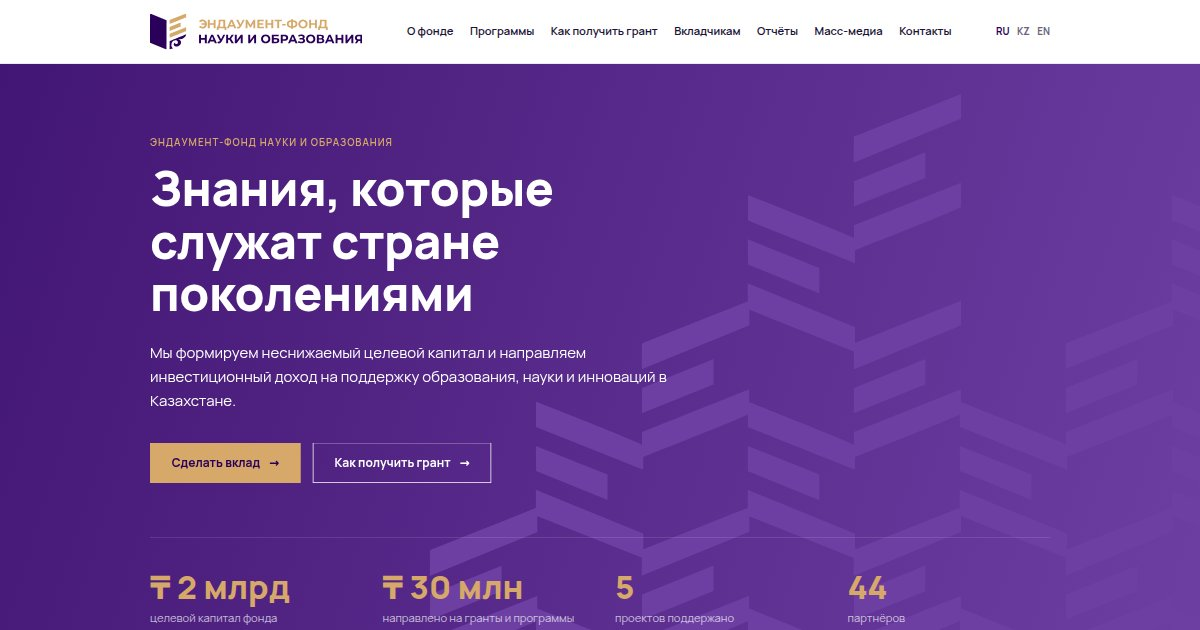
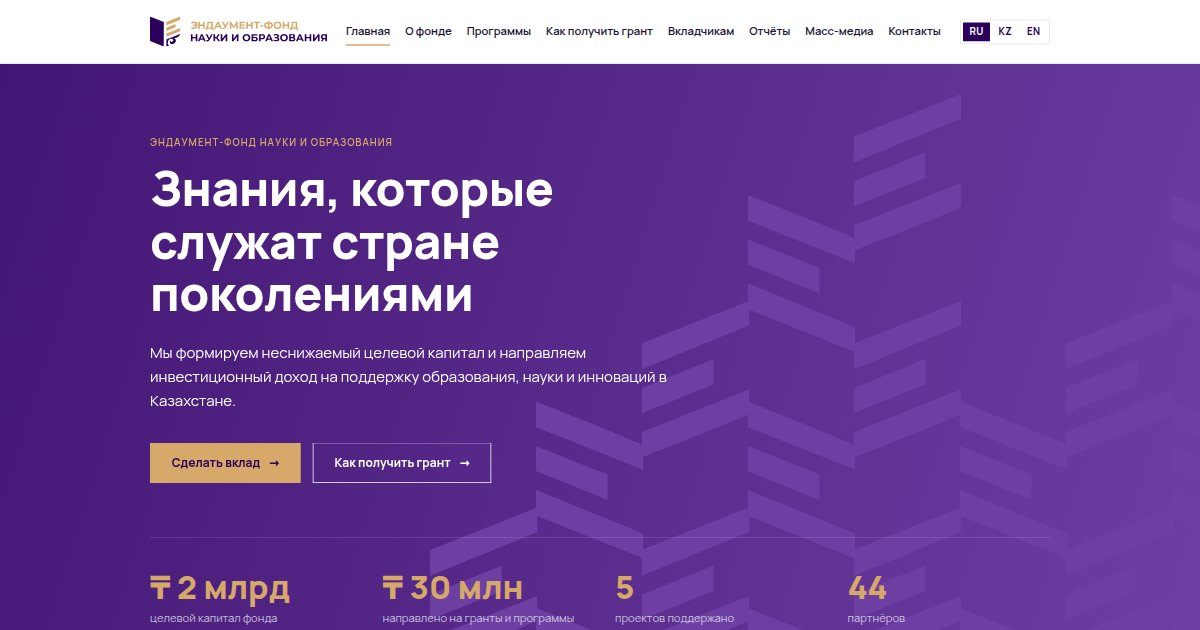
UX/UI: контраст текста, компактные карточки программ, проверка форм, «Показать ещё» в СМИ, партнёры без логотипа, фокус, иконки сайта
Claude-Session: https://claude.ai/code/session_01XUb5ZNUw9HyoULA7bBhtLk

Changed region(s): [[0.1233, 0.0, 0.8942, 0.0905]]

diff --git a/build.js b/build.js
@@ -141,7 +141,7 @@ ${alt}
 <meta name="twitter:card" content="summary_large_image">
 <meta name="twitter:image" content="${SITE}/assets/img/og-${lang}-v2.jpg">
 <meta name="theme-color" content="#2B005B">
-<link rel="icon" href="${R}favicon.svg" type="image/svg+xml">
+<link rel="icon" href="${R}favicon.svg" type="image/svg+xml"><link rel="icon" href="/favicon-32.png" sizes="32x32" type="image/png"><link rel="apple-touch-icon" href="/apple-touch-icon.png"><meta name="theme-color" content="#2B005B">
 <link rel="preconnect" href="https://fonts.googleapis.com"><link rel="preconnect" href="https://fonts.gstatic.com" crossorigin>
 <link href="https://fonts.googleapis.com/css2?family=Manrope:wght@400;500;600;700;800&family=Onest:wght@400;500;600;700;800&display=swap" rel="stylesheet">
 <link rel="stylesheet" href="${R}assets/css/style.css">
@@ -237,7 +237,7 @@ ${DOCS.map(grp => { const its = lang === 'kz' && grp.items[0].file === 'ustav-ru
   page('programs.html', p.title, p.desc, 'programs.html', `
 ${phero(p.title, p.title, p.lead)}
 <section class="sec bg-wh"><div class="wrap">${head(p.mainEb, p.mainH)}
-<div class="grid g3">${p.main.map(([cat, h, bud, per, d, l]) => `<div class="form prog-main" style="gap:16px"><span class="tag vi" style="align-self:flex-start">${cat}</span><h3 class="h3">${h}</h3><dl class="pm-meta"><div><dt>${p.budgetL}</dt><dd>${bud}</dd></div><div><dt>${p.periodL}</dt><dd>${per}</dd></div></dl><p class="txt">${d}</p><hr style="border:0;border-top:1px solid var(--ln);margin:4px 0;width:100%">${l.map(y => `<span class="check">${y}</span>`).join('')}</div>`).join('')}</div>
+<div class="grid g3">${p.main.map(([cat, h, bud, per, d, l]) => `<div class="form prog-main" style="gap:16px"><span class="tag vi" style="align-self:flex-start">${cat}</span><h3 class="h3">${h}</h3><dl class="pm-meta"><div><dt>${p.budgetL}</dt><dd>${bud}</dd></div><div><dt>${p.periodL}</dt><dd>${per}</dd></div></dl><p class="txt">${d}</p><hr style="border:0;border-top:1px solid var(--ln);margin:4px 0;width:100%">${l.slice(0, 3).map(y => `<span class="check">${y}</span>`).join('')}${l.length > 3 ? `<details class="pm-more"><summary><span class="pm-open">${{ ru: 'Подробнее', kz: 'Толығырақ', en: 'More' }[lang]} (${l.length - 3})</span><span class="pm-close">${{ ru: 'Свернуть', kz: 'Жасыру', en: 'Less' }[lang]}</span></summary><div class="pm-list">${l.slice(3).map(y => `<span class="check">${y}</span>`).join('')}</div></details>` : ''}</div>`).join('')}</div>
 </div></section>
 <section class="sec bg-li"><div class="wrap">${head(p.cardsEb, p.cardsH)}
 <div class="toolbar"><div class="chips" data-filter>${FILTERS.map((v, i) => `<button class="chip${i ? '' : ' on'}" data-value="${v}">${p.filters[i]}</button>`).join('')}</div>
@@ -325,7 +325,8 @@ ${phero(r.title, r.h1, r.lead)}
 ${phero(s.title, s.title, s.lead)}
 <section class="sec bg-li" style="padding-top:72px"><div class="wrap">
 ${(() => { const ys = [...new Set(MEDIA.filter(m => m.date).map(m => m.date.slice(-4)))]; const vals = ['all', ...ys.map(y => 'y' + y), 'other']; const labs = [s.all, ...ys, s.other]; return `<div class="toolbar"><div class="chips" data-filter>${vals.map((v, i) => `<button class="chip${i ? '' : ' on'}" data-value="${v}">${labs[i]}</button>`).join('')}</div><span class="meta">${s.count}: ${MEDIA.length}</span></div>`; })()}
-<div class="grid g3">${MEDIA.map(newsCard).join('')}</div>
+<div class="grid g3" data-paged="12">${MEDIA.map(newsCard).join('')}</div>
+<div class="more-wrap"><button class="btn btn-outline more-btn" type="button">${{ ru: 'Показать ещё', kz: 'Тағы көрсету', en: 'Show more' }[lang]}</button></div>
 </div></section>
 <section class="sec bg-vi" style="padding:72px 0"><div class="wrap cta"><div><span class="eb">${s.journEb}</span><h2 class="h2 h2-sm">${s.journH}</h2><p style="opacity:.8;margin-top:8px"><a href="mailto:${EMAIL}">${EMAIL}</a></p></div>
 <form class="sub" name="subscribe" method="POST" action="${FS}">${hidden('subscribe')}<label class="visually-hidden" for="sub-email">E-mail</label><input id="sub-email" type="email" name="email" placeholder="${s.subPh}" required><button class="btn btn-gold" type="submit">${s.subBtn}</button></form></div></section>
@@ -335,14 +336,14 @@ ${(() => { const ys = [...new Set(MEDIA.filter(m => m.date).map(m => m.date.slic
   const pp = t.partnersPage;
   const ptCard = it => {
     const src = it.logo ? (it.logo.startsWith('local:') ? `${R}assets/img/partners/${it.logo.slice(6)}` : it.logo) : '';
-    const img = src ? `<img src="${src}" alt="" loading="lazy" referrerpolicy="no-referrer" onerror="this.remove()">` : '';
-    return `<div class="pt"><div class="pt-logo">${img}<span class="pt-mono" aria-hidden="true">${it.mono}</span></div><p class="pt-name">${it[lang]}</p></div>`;
+    if (!src) return `<div class="pt pt-nl"><p class="pt-name">${it[lang]}</p></div>`;
+    return `<div class="pt"><div class="pt-logo"><img src="${src}" alt="" loading="lazy" referrerpolicy="no-referrer" onerror="var c=this.closest('.pt'),g=c.closest('.pt-group'),n=g.querySelector('.pt-grid-nl');if(!n){n=document.createElement('div');n.className='pt-grid pt-grid-nl';g.appendChild(n)}c.classList.add('pt-nl');this.parentNode.remove();n.appendChild(c)"></div><p class="pt-name">${it[lang]}</p></div>`;
   };
   page('partners.html', pp.title, pp.desc, '', `
 ${phero(pp.title, pp.title, pp.lead)}
 <section class="sec bg-li"><div class="wrap">
 <p class="pt-total"><b>${PARTNERS_ALL.items.length}</b> ${pp.count}</p>
-${PARTNERS_ALL.groups.map(g => { const its = PARTNERS_ALL.items.filter(i => i.g === g.id); return `<div class="pt-group"><h2 class="h3 pt-gh">${g[lang]} <span>${its.length}</span></h2><div class="pt-grid">${its.map(ptCard).join('')}</div></div>`; }).join('')}
+${PARTNERS_ALL.groups.map(g => { const its = PARTNERS_ALL.items.filter(i => i.g === g.id).sort((a, b) => (b.logo ? 1 : 0) - (a.logo ? 1 : 0)); return `<div class="pt-group"><h2 class="h3 pt-gh">${g[lang]} <span>${its.length}</span></h2>${its.some(i => i.logo) ? `<div class="pt-grid">${its.filter(i => i.logo).map(ptCard).join('')}</div>` : ''}${its.some(i => !i.logo) ? `<div class="pt-grid pt-grid-nl">${its.filter(i => !i.logo).map(ptCard).join('')}</div>` : ''}</div>`; }).join('')}
 </div></section>
 `);
 

diff --git a/static/assets/css/style.css b/static/assets/css/style.css
@@ -1,7 +1,7 @@
 /* Эндаумент-фонд науки и образования — стили сайта */
 :root{
   --dp:#2B005B; --vi:#6E3FA3; --go:#D6A86A; --li:#F7F3ED; --wh:#FFFFFF;
-  --ink:#1B1236; --mu:#6B6480; --ln:#E7E2F0;
+  --ink:#1B1236; --mu:#544D68; --ln:#E7E2F0;
   --wrap:1200px; --pad:24px;
   --sec:clamp(64px,9vw,120px);
   --font:'Manrope','Onest',system-ui,-apple-system,'Segoe UI',Arial,sans-serif;
@@ -14,7 +14,8 @@ a{color:inherit;text-decoration:none}
 h1,h2,h3,h4,p{margin:0}
 ul{margin:0;padding:0;list-style:none}
 button,input,select,textarea{font:inherit;color:inherit}
-:focus-visible{outline:3px solid var(--go);outline-offset:2px}
+:focus-visible{outline:3px solid var(--vi);outline-offset:3px}
+:is(.bg-dp,.bg-vi,.hero,.phero,.ftr,.mnav,.band) :focus-visible{outline-color:var(--go)}
 
 .wrap{max-width:calc(var(--wrap) + var(--pad)*2);margin:0 auto;padding:0 var(--pad)}
 .sec{padding:var(--sec) 0}
@@ -30,7 +31,7 @@ button,input,select,textarea{font:inherit;color:inherit}
 .bg-dp .h2,.bg-vi .h2{color:var(--wh)}
 .h3{font-size:clamp(19px,1.8vw,24px);font-weight:700;line-height:1.3;color:var(--dp)}
 .bg-dp .h3,.bg-vi .h3{color:var(--wh)}
-.lead{font-size:clamp(17px,1.5vw,20px);opacity:.78;max-width:720px}
+.lead{font-size:clamp(17px,1.5vw,20px);opacity:.9;max-width:720px}
 .txt{color:var(--mu);font-size:16px}
 .bg-dp .txt,.bg-vi .txt{color:rgba(255,255,255,.72)}
 .link{font-weight:700;font-size:16px;color:var(--vi);display:inline-flex;gap:8px;align-items:center}
@@ -142,7 +143,7 @@ html[lang="kk"] .hdr .wrap{max-width:1408px}
 
 /* Шапка внутренних страниц */
 .phero{background:var(--dp);color:var(--wh);padding:56px 0 88px}
-.crumbs{font-size:14px;color:rgba(255,255,255,.55);margin-bottom:24px}
+.crumbs{font-size:14px;color:rgba(255,255,255,.72);margin-bottom:24px}
 .crumbs a:hover{color:var(--wh)}
 .phero .lead{margin-top:24px}
 
@@ -271,7 +272,7 @@ html[lang="kk"] .hdr .wrap{max-width:1408px}
 .pay button.on{border:2px solid var(--dp)}
 @media (max-width:520px){.amounts{grid-template-columns:1fr 1fr}.pay{grid-template-columns:1fr}}
 .req div{display:grid;grid-template-columns:140px 1fr;gap:16px;font-size:15px;padding:6px 0}
-.req dt{color:rgba(255,255,255,.6)} .req dd{margin:0;font-weight:600}
+.req dt{color:rgba(255,255,255,.72)} .req dd{margin:0;font-weight:600}
 @media (max-width:520px){.req div{grid-template-columns:1fr;gap:2px}}
 
 /* FAQ */
@@ -357,7 +358,7 @@ html[lang="kk"] .hdr .wrap{max-width:1408px}
 .partners .logo-box{display:flex;align-items:center;justify-content:center;min-height:160px;padding:32px}
 .partners .logo-box img{max-width:80%;width:auto;height:auto;object-fit:contain}
 /* Программы: три основные программы */
-.pm-meta{display:grid;grid-template-columns:1fr 1fr;gap:12px;margin:0;padding:16px 0;border-top:1px solid var(--ln);border-bottom:1px solid var(--ln)}
+.pm-meta{display:grid;grid-template-columns:1fr;gap:10px;margin:0;padding:16px 0;border-top:1px solid var(--ln);border-bottom:1px solid var(--ln)}
 .pm-meta dt{font-size:13px;color:var(--mu,#6b6b7b);margin-bottom:4px}
 .pm-meta dd{margin:0;font-weight:700;color:var(--dp);font-size:16px}
 /* О фонде: руководство */
@@ -491,3 +492,35 @@ html[lang="kk"] .nav{gap:14px}html[lang="kk"] .nav a{font-size:14.5px}
 .fab-btn{width:48px;height:48px;display:flex;align-items:center;justify-content:center;background:var(--wh);color:var(--dp);border:1px solid var(--ln);box-shadow:0 8px 24px rgba(43,0,91,.14);cursor:pointer;transition:background .25s,color .25s,transform .25s}
 .fab-btn:hover{background:var(--go);color:var(--dp);transform:translateY(-2px);border-color:var(--go)}
 @media(max-width:700px){.fab-nav{right:16px;bottom:80px}.fab-btn{width:46px;height:46px}}
+
+.pm-meta>div{display:flex;justify-content:space-between;align-items:baseline;gap:16px}
+.pm-meta dt{margin-bottom:0!important;flex:none}
+.pm-meta dd{text-align:right}
+.pm-more summary{list-style:none;cursor:pointer;color:var(--vi);font-weight:700;font-size:15px;display:inline-flex;align-items:center;gap:8px;padding:4px 0}
+.pm-more summary::-webkit-details-marker{display:none}
+.pm-more summary::after{content:'';width:8px;height:8px;border-right:2px solid currentColor;border-bottom:2px solid currentColor;transform:rotate(45deg) translateY(-3px);transition:transform .25s}
+.pm-more[open] summary::after{transform:rotate(-135deg) translateY(-1px)}
+.pm-more .pm-close,.pm-more[open] .pm-open{display:none}
+.pm-more[open] .pm-close{display:inline}
+.pm-list{display:flex;flex-direction:column;gap:16px;margin-top:12px}
+
+/* Формы: обязательные поля, ошибки, галочка согласия */
+.field:has(:required)>label::after{content:' *';color:#B3261E}
+.has-err input,.has-err select,.has-err textarea{border-color:#B3261E!important;background:#FFF7F6}
+.err-msg{display:block;font-size:13px;font-weight:600;color:#B3261E;margin-top:2px;width:100%}
+.agree{flex-wrap:wrap;cursor:pointer;padding:6px 0;line-height:1.4}
+.agree input{width:22px;height:22px;flex:none;margin:0;accent-color:var(--dp);cursor:pointer}
+.agree.has-err input{outline:2px solid #B3261E;outline-offset:2px}
+.agree .err-msg{flex-basis:100%;padding-left:34px}
+
+.pg-hide{display:none!important}
+.more-wrap{display:flex;justify-content:center;margin-top:48px}
+.more-wrap[hidden]{display:none}
+/* Партнёры без логотипа — компактная карточка с названием */
+.pt-nl{justify-content:center;border-left:3px solid var(--go);min-height:88px}
+.pt-nl .pt-name{padding:18px 20px}
+.pt-grid+.pt-grid{margin-top:16px}
+.pt-grid-nl{align-items:stretch}
+.pt-grid-nl .pt-nl{min-height:72px}
+.inp-err{outline:2px solid #FF8A80!important;outline-offset:0}
+.sub{position:relative}.sub>.err-msg{position:absolute;left:0;top:100%;margin-top:8px;color:#FFD7D2;width:auto}

diff --git a/static/assets/js/main.js b/static/assets/js/main.js
@@ -1,3 +1,37 @@
+// ===== Проверка форм с фирменными подсказками =====
+(function () {
+  const L = { ru: { req: 'Заполните это поле', email: 'Укажите корректный e-mail', agree: 'Нужно согласие на обработку данных', file: 'Прикрепите файл', sel: 'Выберите вариант' },
+    kk: { req: 'Бұл өрісті толтырыңыз', email: 'Дұрыс e-mail көрсетіңіз', agree: 'Деректерді өңдеуге келісім қажет', file: 'Файлды тіркеңіз', sel: 'Нұсқаны таңдаңыз' },
+    en: { req: 'Please fill in this field', email: 'Please enter a valid e-mail', agree: 'Please give your consent to data processing', file: 'Please attach a file', sel: 'Please choose an option' } }[document.documentElement.lang] || {};
+  const msg = el => el.type === 'checkbox' ? L.agree : el.type === 'file' ? L.file : el.tagName === 'SELECT' ? L.sel : (el.type === 'email' && el.value) ? L.email : L.req;
+  const box = el => el.closest('.field, .agree');
+  const clear = el => {
+    el.removeAttribute('aria-invalid'); el.classList.remove('inp-err');
+    const b = box(el);
+    if (b) { b.classList.remove('has-err'); const m = b.querySelector(':scope > .err-msg'); if (m) m.remove(); }
+    else if (el.form) { const n = el.form.querySelector(':scope > .err-msg'); if (n) n.remove(); }
+  };
+  const mark = el => {
+    clear(el); el.setAttribute('aria-invalid', 'true');
+    const m = document.createElement('span'); m.className = 'err-msg'; m.setAttribute('role', 'alert'); m.textContent = msg(el);
+    const b = box(el);
+    if (b) { b.classList.add('has-err'); b.appendChild(m); } else { el.classList.add('inp-err'); el.form.appendChild(m); }
+  };
+  document.querySelectorAll('form').forEach(f => {
+    f.setAttribute('novalidate', '');
+    f.addEventListener('input', e => { if (e.target.checkValidity && e.target.checkValidity()) clear(e.target); });
+    f.addEventListener('change', e => { if (e.target.checkValidity && e.target.checkValidity()) clear(e.target); });
+  });
+  document.addEventListener('submit', e => {
+    const f = e.target; if (!(f instanceof HTMLFormElement)) return;
+    const bad = [...f.elements].filter(el => el.willValidate && !el.checkValidity() && el.name !== '_honey');
+    if (!bad.length) return;
+    e.preventDefault(); e.stopImmediatePropagation();
+    bad.forEach(mark); bad[0].focus({ preventScroll: true });
+    bad[0].scrollIntoView({ block: 'center', behavior: 'smooth' });
+  }, true);
+})();
+
 // ===== Аналитика: цели (Яндекс Метрика + Google Analytics, если подключены) =====
 window.track = function (goal, params) {
   try { if (window.ym && window.__ym) ym(window.__ym, 'reachGoal', goal, params || {}); } catch (e) {}
@@ -252,4 +286,19 @@ document.querySelectorAll('form[action*="formsubmit.co"]:not(.fb-form)').forEach
     window.scrollTo({ top: 0, behavior: matchMedia('(prefers-reduced-motion: reduce)').matches ? 'auto' : 'smooth' });
     track && track('click_top');
   });
+})();
+
+// ===== «Показать ещё» для длинных списков (Масс-медиа) =====
+(function () {
+  const grid = document.querySelector('[data-paged]'); if (!grid) return;
+  const step = +grid.dataset.paged, btn = document.querySelector('.more-btn'); let limit = step;
+  const apply = () => {
+    const vis = [...grid.children].filter(c => c.style.display !== 'none');
+    vis.forEach((c, i) => c.classList.toggle('pg-hide', i >= limit));
+    grid.querySelectorAll('.pg-hide.rv').forEach(c => c.classList.add('in'));
+    btn.parentElement.hidden = vis.length <= limit;
+  };
+  btn.addEventListener('click', () => { limit += step; apply(); });
+  document.querySelectorAll('[data-filter] .chip').forEach(ch => ch.addEventListener('click', () => setTimeout(() => { limit = step; apply(); }, 0)));
+  apply();
 })();
